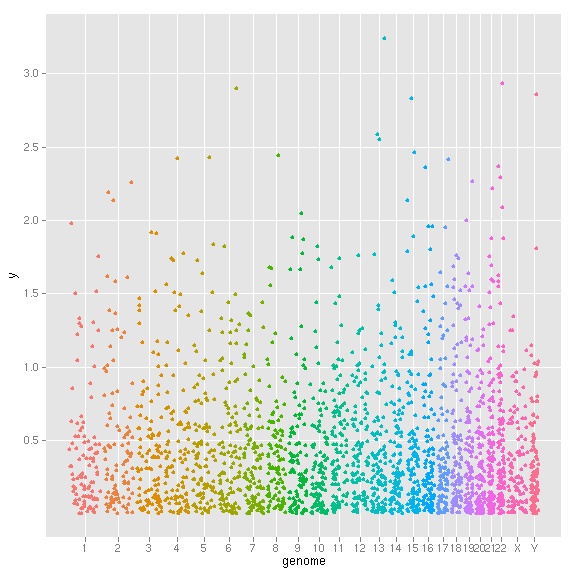
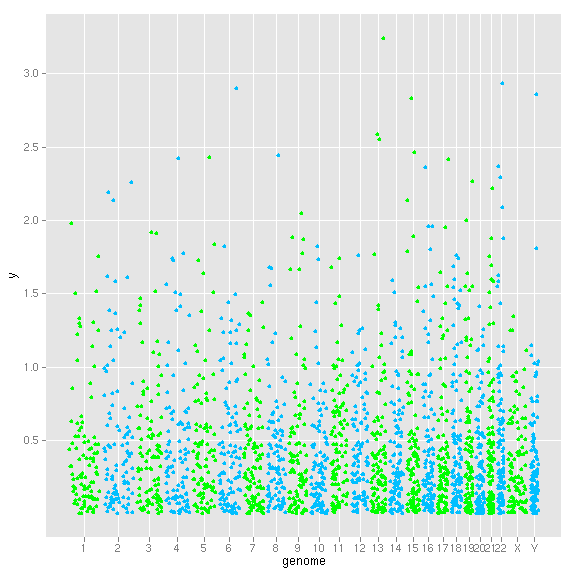
update

diff --git a/_posts/2012-04-12-Manhattan.md b/_posts/2012-04-12-Manhattan.md
@@ -230,37 +230,7 @@ autoplot(gr.snp, coord = "genome", geom = "point", aes(y = pvalue),
 
 {% highlight r %}
 names(seqlths) <- gsub("chr", "", names(seqlths))
-seqlths
-{% endhighlight %}
-
-
-
-{% highlight text %}
-##         1        10        11        12        13        14        15 
-## 249250621 135534747 135006516 133851895 115169878 107349540 102531392 
-##        16        17        18        19         2        20        21 
-##  90354753  81195210  78077248  59128983 243199373  63025520  48129895 
-##        22         3         4         5         6         7         8 
-##  51304566 198022430 191154276 180915260 171115067 159138663 146364022 
-##         9         X         Y 
-## 141213431 155270560  59373566 
-{% endhighlight %}
-
-
-
-{% highlight r %}
-seqlengths(gr.snp) <- seqlths
-{% endhighlight %}
-
-
-
-{% highlight text %}
-## Error: when the supplied 'seqlengths' vector is named, the names must match the seqnames
-{% endhighlight %}
-
-
-
-{% highlight r %}
+seqlengths(gr.snp) <- seqlths[names(seqlengths(gr.snp))]
 autoplot(gr.snp, coord = "genome", geom = "point", aes(y = pvalue), 
     space.skip = 0.01)
 {% endhighlight %}
@@ -289,16 +259,10 @@ convenient to use. Here for *Manhattan plot*, we have a function called
 
 
 {% highlight r %}
-plotGrandLinear(gr.snp, y = pvalue)
+plotGrandLinear(gr.snp, aes(y = pvalue))
 {% endhighlight %}
 
-
-
-{% highlight text %}
-## Error: object 'pvalue' not found
-{% endhighlight %}
-
-
+![plot of chunk plotGrandLinear](https://github.com/tengfei/ggbio/raw/gh-pages/_posts/manhattan-plotGrandLinear.png) 
 
 
 Color mapping is automatically figured out by *ggbio* following the rules
@@ -312,35 +276,29 @@ Color mapping is automatically figured out by *ggbio* following the rules
 
 
 {% highlight r %}
-plotGrandLinear(gr.snp, aes(y = pvalue))
+plotGrandLinear(gr.snp, aes(y = pvalue, color = seqnames))
 {% endhighlight %}
 
 ![plot of chunk morecolor](https://github.com/tengfei/ggbio/raw/gh-pages/_posts/manhattan-morecolor1.png) 
 
 {% highlight r %}
-plotGrandLinear(gr.snp, aes(y = pvalue, color = seqnames))
-{% endhighlight %}
-
-![plot of chunk morecolor](https://github.com/tengfei/ggbio/raw/gh-pages/_posts/manhattan-morecolor2.png) 
-
-{% highlight r %}
 plotGrandLinear(gr.snp, aes(y = pvalue), color = c("green", "deepskyblue"))
 {% endhighlight %}
 
-![plot of chunk morecolor](https://github.com/tengfei/ggbio/raw/gh-pages/_posts/manhattan-morecolor3.png) 
+![plot of chunk morecolor](https://github.com/tengfei/ggbio/raw/gh-pages/_posts/manhattan-morecolor2.png) 
 
 {% highlight r %}
 plotGrandLinear(gr.snp, aes(y = pvalue), color = c("green", "deepskyblue", 
     "red"))
 {% endhighlight %}
 
-![plot of chunk morecolor](https://github.com/tengfei/ggbio/raw/gh-pages/_posts/manhattan-morecolor4.png) 
+![plot of chunk morecolor](https://github.com/tengfei/ggbio/raw/gh-pages/_posts/manhattan-morecolor3.png) 
 
 {% highlight r %}
 plotGrandLinear(gr.snp, aes(y = pvalue), color = "red")
 {% endhighlight %}
 
-![plot of chunk morecolor](https://github.com/tengfei/ggbio/raw/gh-pages/_posts/manhattan-morecolor5.png) 
+![plot of chunk morecolor](https://github.com/tengfei/ggbio/raw/gh-pages/_posts/manhattan-morecolor4.png) 
 
 
 You can also add cutoff line
@@ -384,13 +342,13 @@ seqlengths(gr.snp)
 
 {% highlight text %}
 ##  chr000001  chr000002  chr000003  chr000004  chr000005  chr000006 
-##         NA         NA         NA         NA         NA         NA 
+##  249250621  243199373  198022430  191154276  180915260  171115067 
 ##  chr000007  chr000008  chr000009 chr0000010 chr0000011 chr0000012 
-##         NA         NA         NA         NA         NA         NA 
+##  159138663  146364022  141213431  135534747  135006516  133851895 
 ## chr0000013 chr0000014 chr0000015 chr0000016 chr0000017 chr0000018 
-##         NA         NA         NA         NA         NA         NA 
+##  115169878  107349540  102531392   90354753   81195210   78077248 
 ## chr0000019 chr0000020 chr0000021 chr0000022  chr00000X  chr00000Y 
-##         NA         NA         NA         NA         NA         NA 
+##   59128983   63025520   48129895   51304566  155270560   59373566 
 {% endhighlight %}
 
 

diff --git a/_posts/2012-04-12-circle.md b/_posts/2012-04-12-circle.md
@@ -5,6 +5,8 @@ category: blog
 ---
 
 
+
+
 - [Step 0: Introduction](#s0)
 - [Step 1: Understand the layout circle](#s1)
 - [Step 2: Get your data ready to plot](#s2)
